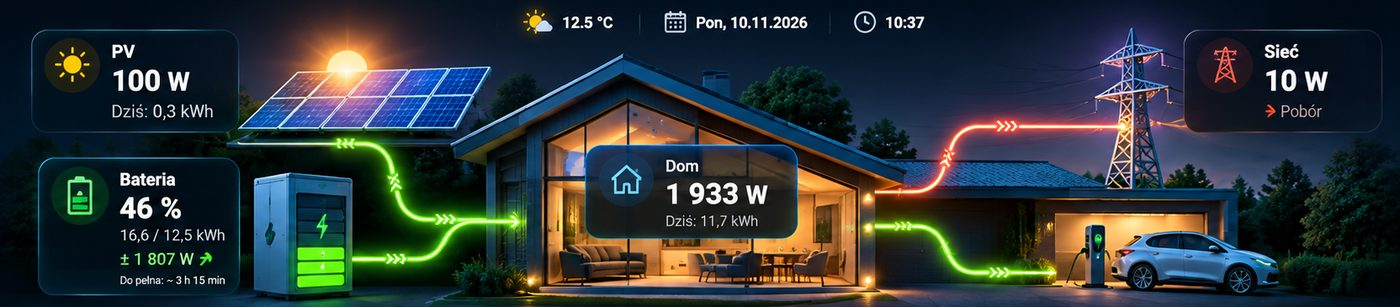
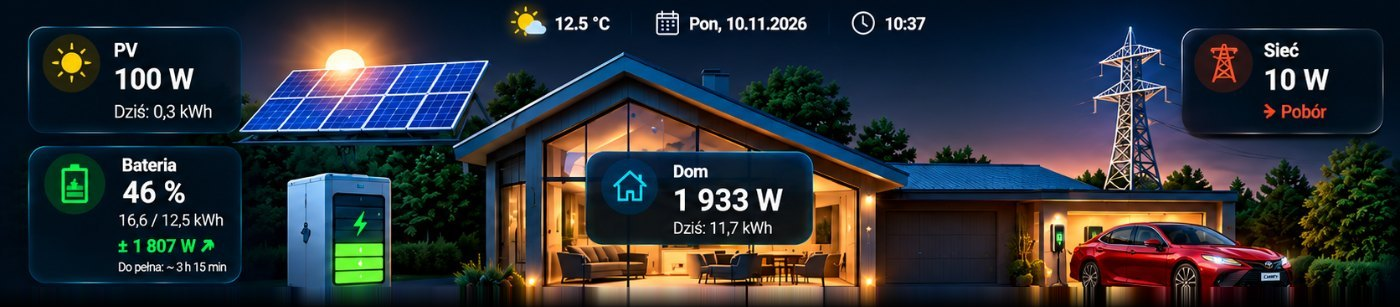
v0.6.0: animowane linie przesyłu w Przeglądzie, karta custom:ems-card, nowe tło sceny
Claude-Session: https://claude.ai/code/session_017S8EUEgmzNGJJqtEv5oCcg

diff --git a/custom_components/ems/frontend/ems-card.js b/custom_components/ems/frontend/ems-card.js
@@ -1,0 +1,68 @@
+// Karta Lovelace "custom:ems-card" – maly kafelek EMS na pulpit (scena z obrazka uzytkownika + zywe kafelki + animowane linie).
+// Rejestrowana przez integracje (frontend.add_extra_js_url) – nic nie trzeba dodawac w Zasobach.
+// Konfiguracja:  type: custom:ems-card   [device: ecobss]   [navigate: /ems]
+import { icR } from "./icons.js";
+import { flowSvg, lines, FLOW_CSS } from "./flow.js";
+
+const BG = new URL("./card.jpg", import.meta.url).href;
+// miejsca kafelkow narysowanych w obrazku (% kadru 1496x720)
+const POS = { pv: [3.0, 19.6, 22.0, 27.0], bat: [3.0, 54.6, 27.0, 38.4], dom: [44.0, 54.0, 17.6, 25.6], grid: [76.0, 19.6, 21.8, 41.8] };
+// linie od zrodla do domu (uklad 1496x720)
+const FLOW = {
+  pv: "M370 290 C470 290 500 430 590 440",
+  bat: "M445 545 C520 545 540 500 590 495",
+  grid: "M1143 320 C1060 320 1050 450 965 460",
+};
+const num = (h, id) => { const s = h && h.states[id]; const v = s ? parseFloat(s.state) : NaN; return isNaN(v) ? null : v; };
+const fmt = (v, d = 1, u = "") => v == null || isNaN(v) ? "–" : `${Number(v).toLocaleString("pl-PL", { minimumFractionDigits: d, maximumFractionDigits: d })}${u ? " " + u : ""}`;
+const W = n => n == null ? "–" : `${Math.round(Math.abs(n)).toString().replace(/\B(?=(\d{3})+(?!\d))/g, " ")} W`;
+
+const CSS = `
+:host{display:block}
+ha-card{overflow:hidden;background:#05080e;border-radius:var(--ha-card-border-radius,16px);cursor:pointer}
+.c{position:relative;container-type:inline-size;font-family:var(--paper-font-body1_-_font-family,Roboto,system-ui,sans-serif);color:#e8eef5}
+.c img{display:block;width:100%;height:auto}
+.t{position:absolute;box-sizing:border-box;display:flex;align-items:center;gap:2.2cqw;padding:1.6cqw 2cqw;background:#0b1622f2;border:1px solid #2a4560;border-radius:2.4cqw;box-shadow:0 0 2cqw #000c}
+.t.dom{flex-direction:column;justify-content:center;gap:.4cqw;text-align:center;background:#0b1622e6}
+.ic{flex:none;width:7cqw;height:7cqw;display:grid;place-items:center}.ic svg{width:100%;height:100%}
+.tx{min-width:0;line-height:1.12}
+.lab{font-size:2.9cqw;font-weight:700;color:#f1f5f9;display:flex;align-items:center;gap:1cqw}.lab svg{width:3.4cqw;height:3.4cqw}
+.val{font-size:4.6cqw;font-weight:700;color:#fff;font-variant-numeric:tabular-nums;white-space:nowrap}
+.sub{font-size:2.4cqw;color:#cbd5e1;white-space:nowrap;font-variant-numeric:tabular-nums}
+.b{color:#60c8ff}.gr{color:#3ee07a}.rd{color:#ff5d6c}.bl{color:#3aa0ff}.or{color:#ff9f1a}
+.bat{flex:none;position:relative;width:6.2cqw;height:13cqw;border:.5cqw solid #4fd1ff;border-radius:1.2cqw;box-shadow:0 0 1.6cqw #4fd1ff88;display:flex;flex-direction:column-reverse;gap:.5cqw;padding:.6cqw}
+.bat::before{content:"";position:absolute;top:-1.6cqw;left:50%;transform:translateX(-50%);width:2.4cqw;height:1cqw;background:#4fd1ff;border-radius:.4cqw .4cqw 0 0}
+.bat i{flex:1;border-radius:.5cqw;background:#1b2a36}.bat i.on{background:currentColor;box-shadow:0 0 1.2cqw currentColor}
+${FLOW_CSS}`;
+
+class EmsCard extends HTMLElement {
+  setConfig(c) { this._c = { device: "ecobss", navigate: "/ems", ...(c || {}) }; this._root || this._init(); this._draw(); }
+  getCardSize() { return 4; }
+  static getStubConfig() { return { device: "ecobss" }; }
+  _init() {
+    this._root = this.attachShadow({ mode: "open" });
+    this._root.innerHTML = `<style>${CSS}</style><ha-card><div class="c"><img src="${BG}" alt="EMS"><div id="f"></div><div id="t"></div></div></ha-card>`;
+    this._root.querySelector("ha-card").onclick = () => { history.pushState(null, "", this._c.navigate); window.dispatchEvent(new CustomEvent("location-changed")); };
+  }
+  set hass(h) { this._h = h; const n = Date.now(); if (!this._t || n - this._t > 2000) { this._t = n; this._draw(); } }
+  _draw() {
+    const h = this._h; if (!h || !this._root) return;
+    const e = k => `sensor.${this._c.device}_${k}`, v = k => num(h, e(k));
+    const pv = v("pv_moc_suma") ?? 0, bp = v("bateria_moc") ?? 0, grid = v("siec_moc_suma") ?? 0, dom = v("obciazenie_moc_suma");
+    const soc = v("bateria_soc"), chg = bp < -20, dis = bp > 20;
+    const box = (k, html, cls = "") => { const [l, t, w, hh] = POS[k]; return `<div class="t ${cls}" style="left:${l}%;top:${t}%;width:${w}%;height:${hh}%">${html}</div>`; };
+    const cells = [0, 1, 2, 3].map(i => `<i class="${soc != null && soc > i * 25 + 5 ? "on" : ""}"></i>`).join("");
+    const bc = chg ? "or" : "gr";
+    this._root.getElementById("f").innerHTML = flowSvg("0 0 1496 720", FLOW, lines(pv, bp, grid), [18, 13, 4.5], "flc");
+    this._root.getElementById("t").innerHTML =
+      box("pv", `<div class="ic">${icR("sun", 40)}</div><div class="tx"><div class="lab">PV</div><div class="val">${W(pv)}</div><div class="sub">Dziś: <span class="b">${fmt(v("energia_pv_produkcja_dzisiaj"), 1, "kWh")}</span></div></div>`) +
+      box("bat", `<div class="bat ${bc}">${cells}</div><div class="tx"><div class="lab">Bateria</div><div class="val">${fmt(soc, 0, "%")}</div><div class="val ${chg || dis ? bc : ""}">${W(bp)}</div>
+        <div class="sub b">${fmt(v("energia_bateria_ladowanie_dzisiaj"), 1)} / ${fmt(v("energia_bateria_rozladowanie_dzisiaj"), 1, "kWh")}</div><div class="sub b">${fmt(v("bateria_napiecie"), 1, "V")} • ${fmt(v("temperatura_baterii"), 1, "°C")}</div></div>`) +
+      box("dom", `<div class="lab"><span style="color:#60c8ff;display:flex">${icR("home", 24)}</span>Dom</div><div class="val">${W(dom)}</div><div class="sub">Dziś: ${fmt(v("energia_zuzycie_dom_dzisiaj"), 1, "kWh")}</div>`, "dom") +
+      box("grid", `<div class="ic">${icR("tower", 40)}</div><div class="tx"><div class="lab">Sieć</div><div class="val">${W(grid)}</div><div class="sub ${grid > 20 ? "rd" : grid < -20 ? "bl" : ""}">${grid > 20 ? "Pobór" : grid < -20 ? "Oddawanie" : "–"}</div>
+        <div class="sub">Import <span class="rd">${fmt(v("energia_siec_import_dzisiaj"), 1, "kWh")}</span></div><div class="sub">Eksport <span class="bl">${fmt(v("energia_siec_export_dzisiaj"), 1, "kWh")}</span></div></div>`);
+  }
+}
+if (!customElements.get("ems-card")) customElements.define("ems-card", EmsCard);
+window.customCards = window.customCards || [];
+if (!window.customCards.some(c => c.type === "ems-card")) window.customCards.push({ type: "ems-card", name: "EMS – kafelek", description: "PV, bateria, dom i sieć z animowanymi liniami przesyłu", preview: true });

diff --git a/custom_components/ems/frontend/tabs/overview.js b/custom_components/ems/frontend/tabs/overview.js
@@ -1,12 +1,20 @@
 import { S, num, fmt, tip, esc } from "../core.js";
 import { T } from "../tips.js";
 import { ic, icR } from "../icons.js";
+import { flowSvg, lines, FLOW_CSS } from "../flow.js";
 export const title = "Przegląd";
 export const ACT = { charge: "Ładowanie z sieci", sell: "Sprzedaż", self: "Autokonsumpcja", block: "Blokada eksportu", wylaczony: "Algorytm wyłączony", brak_planu: "Brak planu", reczne_buy: "Ręczne kupno", reczne_sell: "Ręczna sprzedaż" };
 const WX = { sunny: "sun", "clear-night": "moon", partlycloudy: "cloudSun", cloudy: "cloud", fog: "cloud", rainy: "rain", pouring: "rain", snowy: "snow", "snowy-rainy": "snow", lightning: "storm", "lightning-rainy": "storm", hail: "snow", windy: "cloud", "windy-variant": "cloudSun", exceptional: "cloudSun" };
 const SCENE = new URL("../scene.jpg", import.meta.url).href;
-// Scena = obrazek uzytkownika; kafelki nakladane DOKLADNIE na miejsca liczb wpisanych w obrazek (procenty kadru 1672x367).
-const POS = { pv: [1.8, 8.2, 15.8, 35.6], bat: [2.0, 49.0, 15.8, 48.8], dom: [41.2, 45.6, 16.2, 33.2], grid: [84.0, 8.2, 15.2, 35.6], top: [35.2, 0.6, 32.6, 12.6] };
+// Scena = obrazek uzytkownika (bez linii przesylu); kafelki nakladane DOKLADNIE na miejsca kafelkow wpisanych w obrazek (procenty kadru 1672x367).
+const POS = { pv: [1.7, 8.0, 15.7, 36.5], bat: [1.8, 46.8, 15.6, 52.0], dom: [41.5, 48.2, 16.8, 32.5], grid: [84.1, 8.0, 15.9, 37.0], top: [35.5, 0.4, 32.2, 12.6] };
+// Linie przesylu (od zrodla do domu) w ukladzie 1672x367
+const FLOW = {
+  pv: "M300 162 L440 162 C500 162 500 245 560 250 L700 252",
+  bat: "M470 300 L560 298 C610 296 610 266 650 264 L700 263",
+  grid: "M1345 172 L1180 172 C1120 172 1110 238 1060 240 L972 240",
+  car: "M972 268 L1080 268 C1130 268 1150 298 1200 299 L1258 299",
+};
 const sp = n => n == null || isNaN(n) ? "–" : Math.round(n).toString().replace(/\B(?=(\d{3})+(?!\d))/g, "\u00a0");   // 1 807 (z odstepem jak na wzorze)
 const box = (k, html, cls = "") => { const [l, t, w, h] = POS[k]; return `<div class="sc-card ${cls}" style="left:${l}%;top:${t}%;width:${w}%;height:${h}%">${html}</div>`; };
 const tile = (ic, cls, lab, val, sub, subc, t) => `<div class="ov-tile"><div class="ov-ic ${cls}">${ic}</div><div><div class="ov-lab">${lab}${tip(t)}</div><div class="ov-val">${val}</div><div class="ov-sub" ${subc ? `style="color:${subc}"` : ""}>${sub}</div></div></div>`;
@@ -54,7 +62,8 @@ export function render(c) {
   const nxt = (pa.plan || []).find(s => new Date(s.start) > now && s.action !== "self");
   const L3 = ["l1", "l2", "l3"], kw = w => `${sp(w)} W`;
   const card = (ic, cls, lab, val, sub, sub2, sub3) => `<div class="sc-ic ${cls}">${ic}</div><div class="sc-tx"><div class="sc-lab">${lab}</div><div class="sc-val">${val}</div>${sub ? `<div class="sc-sub">${sub}</div>` : ""}${sub2 || ""}${sub3 ? `<div class="sc-sm">${sub3}</div>` : ""}</div>`;
-  const scene = `<div class="sc"><img src="${SCENE}" alt="Dom, PV, bateria i sieć">
+  const scene = `<style>${FLOW_CSS}</style><div class="sc"><img src="${SCENE}" alt="Dom, PV, bateria i sieć">
+    ${flowSvg("0 -2.4 1672 367", FLOW, lines(pv, bp, grid), [13, 9, 3.5], "flov")}
     ${box("top", `<span>${icR(WX[wx?.state] || "cloudSun", 30)}${wx ? ` ${fmt(wx.attributes.temperature, 1, wx.attributes.temperature_unit || "°C")}` : " –"}</span><i></i><span>${icR("calendar", 26)} ${now.toLocaleDateString("pl-PL", { weekday: "short" }).replace(/^./, x => x.toUpperCase())}, ${now.toLocaleDateString("pl-PL")}</span><i></i><span>${icR("clock", 26)} ${now.toLocaleTimeString("pl-PL", { hour: "2-digit", minute: "2-digit" })}</span>`, "sc-top")}
     ${box("pv", card(icR("sun", 34), "y", "PV", kw(pv), `Dziś: ${fmt(pvd, 1, "kWh")}`))}
     ${box("bat", card(icR("batteryBolt", 34), "g", "Bateria", fmt(soc, 0, "%"), `${fmt(bl, 1)} / ${fmt(br, 1, "kWh")}`, `<div class="sc-sub" style="color:${chg > 0 ? "#3ee07a" : bp > 0 ? "#ffad2e" : "#9fb0c3"}">± ${kw(Math.abs(bp))} ${chg > 0 ? ic("arrowUR", 16) : bp > 0 ? ic("arrowDR", 16) : ""}</div>`, toFull))}

diff --git a/custom_components/ems/frontend/flow.js b/custom_components/ems/frontend/flow.js
@@ -1,0 +1,39 @@
+// Animowane linie przeplywu energii (Przeglad + karta ems-card).
+// Sciezki rysowane od zrodla (PV, bateria, slup, auto) DO domu; kierunek = znak mocy.
+// Animacja CSS z ujemnym opoznieniem liczonym z zegara -> po przerysowaniu HTML impulsy nie skacza.
+export const COL = { pv: "#7CFC4A", out: "#7CFC4A", chg: "#ff9f1a", imp: "#ff4d6d", exp: "#3aa0ff", off: "#2a3644" };
+const GAP = 104;   // dlugosc wzoru kreski (impuls + przerwa)
+
+export const FLOW_CSS = `
+.fl-svg{position:absolute;inset:0;width:100%;height:100%;pointer-events:none}
+.fl-svg path{fill:none;stroke-linecap:round}
+.fl-run{animation:emsflow linear infinite}
+.fl-rev{animation-direction:reverse}
+@keyframes emsflow{to{stroke-dashoffset:-${GAP}}}
+@media(prefers-reduced-motion:reduce){.fl-run{animation:none}}`;
+
+// moc -> stan linii: { w: W (abs), toHouse, col }
+export function lines(pv, bat, grid) {   // bat: + rozladowanie, - ladowanie (jak bateria_moc); grid: + pobor, - oddawanie
+  return {
+    pv: { w: pv, toHouse: true, col: COL.pv },
+    bat: { w: bat, toHouse: bat > 0, col: bat > 0 ? COL.out : COL.chg },
+    grid: { w: grid, toHouse: grid > 0, col: grid > 0 ? COL.imp : COL.exp },
+    car: { w: 0, toHouse: false, col: COL.pv },   // samochod: na razie tylko grafika
+  };
+}
+
+// vb = "0 0 W H", paths = {klucz: d}, st = lines(...), th = [kabel, impuls, srodek]
+export function flowSvg(vb, paths, st, th = [13, 9, 3.5], id = "flg") {
+  const now = Date.now() / 1000;
+  let g = "";
+  for (const k in paths) {
+    const s = st[k] || { w: 0 }, a = Math.abs(s.w || 0), d = paths[k];
+    if (a < 20) { g += `<path d="${d}" stroke="${COL.off}" stroke-width="${th[0]}" opacity=".6"/>`; continue; }
+    const sp = a < 500 ? 60 : a < 1500 ? 130 : 240, dur = GAP / sp, del = -(now % dur);
+    const an = `class="fl-run${s.toHouse ? "" : " fl-rev"}" style="animation-duration:${dur.toFixed(2)}s;animation-delay:${del.toFixed(2)}s" stroke-dasharray="34 70"`;
+    g += `<path d="${d}" stroke="${s.col}" stroke-width="${th[0]}" opacity=".28"/>`
+      + `<path d="${d}" stroke="${s.col}" stroke-width="${th[1]}" filter="url(#${id})" ${an}/>`
+      + `<path d="${d}" stroke="#fff" stroke-width="${th[2]}" ${an}/>`;
+  }
+  return `<svg class="fl-svg" viewBox="${vb}" preserveAspectRatio="none" aria-hidden="true"><defs><filter id="${id}" x="-20%" y="-50%" width="140%" height="200%"><feGaussianBlur stdDeviation="5" result="a"/><feMerge><feMergeNode in="a"/><feMergeNode in="a"/><feMergeNode in="SourceGraphic"/></feMerge></filter></defs>${g}</svg>`;
+}

diff --git a/custom_components/ems/__init__.py b/custom_components/ems/__init__.py
@@ -25,6 +25,7 @@ async def async_setup(hass: HomeAssistant, config: dict) -> bool:
     await hass.http.async_register_static_paths(
         [StaticPathConfig(STATIC, str(Path(__file__).parent / "frontend"), False)]
     )
+    frontend.add_extra_js_url(hass, f"{STATIC}/ems-card.js")   # karta Lovelace custom:ems-card
     diag.setup(hass)
     hass.http.register_view(BacktestView)
     hass.http.register_view(WriteView)

diff --git a/custom_components/ems/const.py b/custom_components/ems/const.py
@@ -1,6 +1,6 @@
 """Stale integracji EMS."""
 DOMAIN = "ems"
-VERSION = "0.5.9"
+VERSION = "0.6.0"
 CONF_DEVICE = "device"          # prefiks encji ESPHome, np. "ecobss"
 DEFAULT_DEVICE = "ecobss"
 POLL_NUMBER = "interwal_odczytu"

diff --git a/CHANGELOG.md b/CHANGELOG.md
@@ -1,5 +1,14 @@
 # Zmiany EMS
 
+## v0.6.0
+
+**Dodane**
+- Przegląd: animowane linie przesyłu na scenie (PV → dom, bateria ↔ dom, sieć ↔ dom; linia do auta wygaszona). Neon z poświatą i biegnącymi impulsami, kierunek wg znaku mocy, prędkość w 3 progach (< 500 W, < 1500 W, więcej), poniżej 20 W linia gaśnie (szary kabel). Kolory: PV zielony; sieć – pobór czerwony, oddawanie niebieskie; bateria – ładowanie pomarańczowe, rozładowanie zielone. Bez animacji przy „ograniczonym ruchu” w systemie (`frontend/flow.js`).
+- Karta na pulpit `custom:ems-card` (mały kafelek: PV, Bateria z SOC/mocą/ład.-rozł./V/°C, Dom, Sieć z importem/eksportem dziś) z tymi samymi animowanymi liniami. Rejestrowana automatycznie przez integrację; opcje `device` (domyślnie `ecobss`) i `navigate` (domyślnie `/ems`, kliknięcie otwiera panel).
+
+**Zmienione**
+- Nowe tło sceny Przeglądu (`frontend/scene.jpg`) – grafika użytkownika bez namalowanych linii, czerwone auto; kafelki dopasowane do nowego obrazka.
+
 ## v0.5.9
 
 **Dodane**
